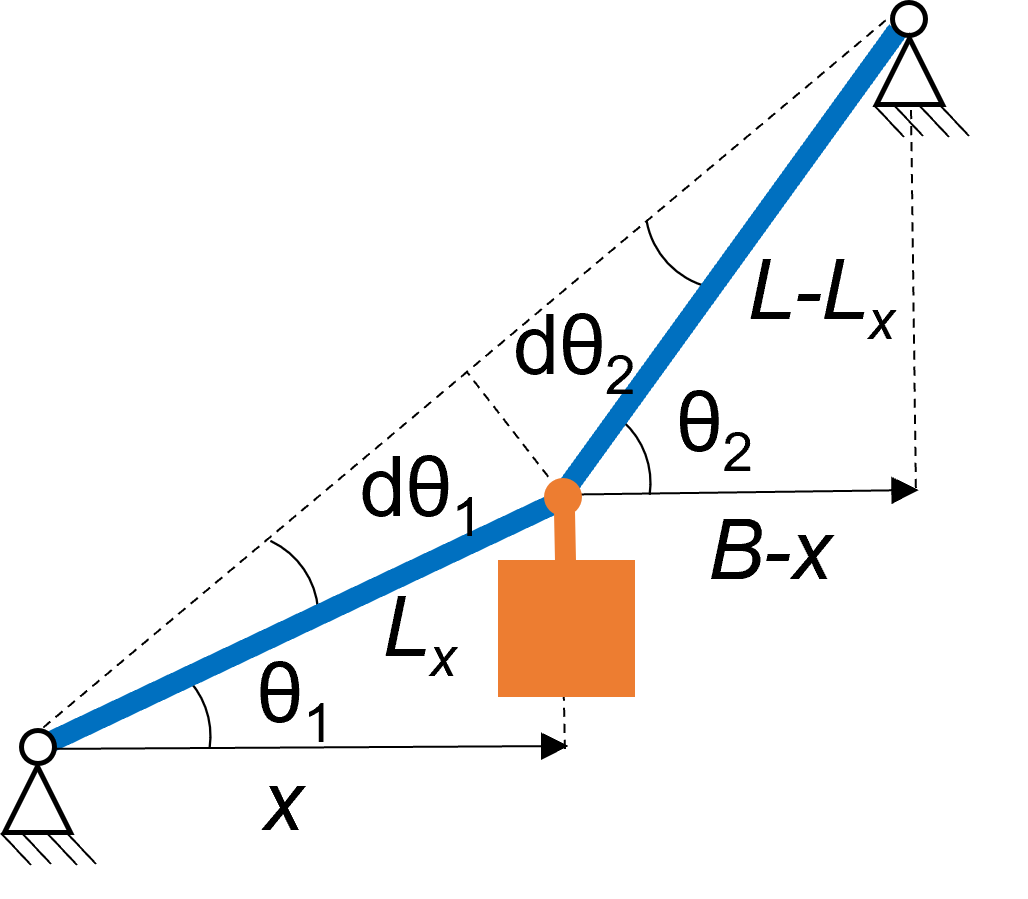
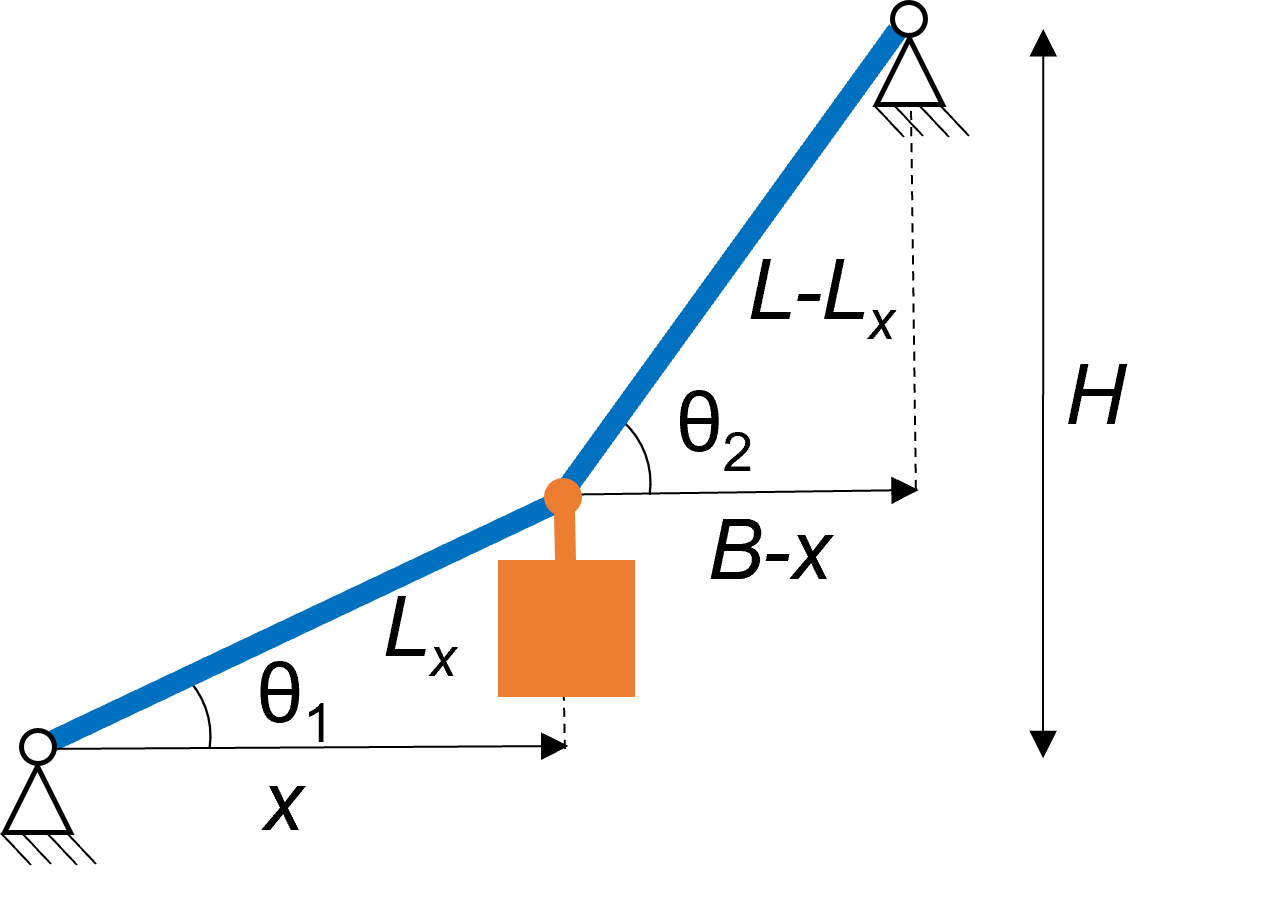
Changes - II
1. Kinematic formulation change - removal of alpha1 & alpha 2
2. T1 Angle change
3. Stretch factor increase

diff --git a/Cable_car/description2.html b/Cable_car/description2.html
@@ -36,8 +36,8 @@
         The following trigonometric relations can be obtained by considering the kinematic configuration of the cable car: 
 	$$L_x \: cos \: \theta_1  = x,$$ 
 	$$(L-L_x) \: cos \: \theta_2  = B-x,$$ 
-	$$L_x \: sin \: d\theta_1  = (L-L_x) \: sin \: d\theta_2$$ 
-        where $L_x$ is the bottom cable segment length, $B$ is the horizontal distance between the supports, $d\theta_1$ is the angle formed between the diagonal joining the supports and the bottom cable segment and $d\theta_2$ is the angle formed between the diagonal joining the supports and the top cable segment. The angles of the cable at the supports ($\theta_1$ and $\theta_2$) can be found by simultaneously solving these trigonometric relations.
+	$$L_x \: sin\: \theta_1 + (L-L_x) \: sin\: \theta_2  = H$$
+        where $L_x$ is the bottom cable segment length, $B$ is the horizontal distance between the supports and $H$ is the vertical distance between the supports. The angles of the cable at the supports ($\theta_1$ and $\theta_2$) can be found by simultaneously solving these trigonometric relations.
     </p>
 
     <p>

diff --git a/Cable_car/main.py b/Cable_car/main.py
@@ -5,6 +5,7 @@ location of the carriage car
 Created on Tue Jun  1 22:53:14 2021
 @author: Ramsubramanian Pazhanisamy
 """
+
 #################################
 ##           IMPORTS           ##
 #################################
@@ -33,19 +34,20 @@ from latex_support import LatexDiv, LatexLabelSet, LatexSlider
 ###################################################
 ##           APP THEORETICAL DESCRIPTION         ##
 ###################################################
+
 #Theoretical description of the app in Latex
 description_filename1 = join(dirname(__file__), "description1.html") #Part I of the description
 description1 = LatexDiv(text=open(description_filename1).read(), render_as_text=False, width=1000)
 
-description_filename2 = join(dirname(__file__), "description2.html")#Part II of the description
+description_filename2 = join(dirname(__file__), "description2.html") #Part II of the description
 description2 = LatexDiv(text=open(description_filename2).read(), render_as_text=False, width=1000)
 
-description_filename3 = join(dirname(__file__), "description3.html")#Part III of the description
+description_filename3 = join(dirname(__file__), "description3.html") #Part III of the description
 description3 = LatexDiv(text=open(description_filename3).read(), render_as_text=False, width=1000)
 
-#Figures_static
+# Figures_static
 # Plot
-#Kinematics of the cable car 
+# Kinematics of the cable car 
 kinematics_img="Cable_car/static/images/Kinematics.svg"
 figure_kin = figure(height=235, width=235)
 figure_kin.toolbar.logo = None # do not display the bokeh logo
@@ -80,7 +82,7 @@ figure_fbd.outline_line_alpha = 0
 #################################
 
 # Initial parameters & its limits
-#Cable car dimensions & user inputs
+# Cable car dimensions & user inputs
 H_max =525.0 #Verical distance between the supports (m) -H
 H_min= 475.0
 H=500.0
@@ -89,7 +91,7 @@ B_max=525.0 #Horizontal distance between the supports (m) -B
 B_min=475.0
 B=500.0
 
-c_max=1.02  #Cable length stretch factor -c
+c_max=1.3  #Cable length stretch factor -c
 c_min=1.003
 c=(c_min+c_max)/2
 
@@ -100,27 +102,22 @@ M=250.0
 x=0.55*B #Axial location of the cable car
 D=np.sqrt(H*H+B*B) #Diagonal distance between the supports (m)
 L=c*D #Length of the cable (m) - cable length should be always higher than the distance between the supports
-theta_s1= np.arcsin(H/D) #Angle of the support 1 - bottom support
-theta_s2= np.arcsin(B/D) #Angle of the support 2 - top support
 W=M*9.81 #Weight of the car (N)
 
-a1=0.0 #alpha1 - angle between the cable and diagonal joining the supports at bottom support
-a2=0.0 #alpha2 - angle between the cable and diagonal joining the supports at top support            
+#Symbolic constants
+theta1=sp.Symbol('theta1',real=True)
+theta2=sp.Symbol('theta2',real=True)         
 
-#Symbolic constants for sympy - a1 & a2
-alpha1=sp.Symbol('alpha1',real=True)
-alpha2=sp.Symbol('alpha2',real=True)        
-
-#Kinematic equations 
-eq1= sp.Eq(((L-x/sp.cos(theta_s1-alpha1))*sp.sin(theta_s2-alpha2))+x-B,0)
-eq2= sp.Eq((x/sp.cos(theta_s1-alpha1)*sp.sin(alpha1))-((L-x/sp.cos(theta_s1-alpha1))*sp.sin(alpha2)),0)    
-
-#Simultaneously solving the system of equations numerically
-[a1,a2]=sp.nsolve((eq1,eq2),(alpha1,alpha2),(0.10,0.10))    
+#Kinematic equations
+eq1= sp.Eq(((L-x/sp.cos(theta1))*sp.cos(theta2))+x-B,0)
+eq2= sp.Eq(((x/sp.cos(theta1))*sp.sin(theta1))+((L-x/sp.cos(theta1))*sp.sin(theta2))-H,0)
+    
+#Solving the system of equations numerically
+[t1,t2]=sp.nsolve((eq1,eq2),(theta1,theta2),(0.25,0.75))    
 
 #Effective angles on the Cable
-theta_total1=float(theta_s1-a1) #Actual angle at S1 for a specific car position on the rope
-theta_total2=float(theta_s2+a2) #Actual angle at S2 for a specific car position on the rope
+theta_total1=float(t1) #Actual angle at S1 for a specific car position on the rope
+theta_total2=float(t2) #Actual angle at S2 for a specific car position on the rope
 Lx=x/np.cos(theta_total1) #Length of the bottom cable segement     
 
 #Tensions on the Cable
@@ -134,15 +131,13 @@ T2= W/(np.sin(theta_total2)-(np.cos(theta_total2)*np.sin(theta_total1)/np.cos(th
 
 # Div to show tension and distance values
 value_plot_distance_cable_length= LatexDiv(text="", render_as_text=False, width=400)
-value_plot_angles1 = LatexDiv(text="", render_as_text=False, width=400)
-value_plot_angles2 = LatexDiv(text="", render_as_text=False, width=400)
+value_plot_angles = LatexDiv(text="", render_as_text=False, width=400)
 value_plot_tensions = LatexDiv(text="", render_as_text=False, width=400)
 
 #Display the results
-def setValueText(D,L,t1,t2,a1,a2,T1,T2):
+def setValueText(D,L,t1,t2,T1,T2):
     value_plot_distance_cable_length.text = "$$\\begin{aligned} D&=" + "{:4.1f}".format(D) + "\\,\\mathrm{m}\\\\ L&=" + "{:4.1f}".format(L) + "\\,\\mathrm{m} \\end{aligned}$$"    #Display the D & L
-    value_plot_angles1.text = "$$\\begin{aligned} \\theta_1&=" + "{:4.1f}".format(t1) + "\\,\\mathrm{°}\\\\ \\theta_2&=" + "{:4.1f}".format(t2) + "\\,\\mathrm{°} \\end{aligned}$$" #Display Theta1 & Theta2
-    value_plot_angles2.text = "$$\\begin{aligned} \\alpha_1&=" + "{:4.1f}".format(a1) + "\\,\\mathrm{°}\\\\ \\alpha_2&=" + "{:4.1f}".format(a2) + "\\,\\mathrm{°} \\end{aligned}$$" #Display alpha1 & alpha2
+    value_plot_angles.text = "$$\\begin{aligned} \\theta_1&=" + "{:4.1f}".format(t1) + "\\,\\mathrm{°}\\\\ \\theta_2&=" + "{:4.1f}".format(t2) + "\\,\\mathrm{°} \\end{aligned}$$" #Display Theta1 & Theta2
     value_plot_tensions.text = "$$\\begin{aligned} T_1&=" + "{:4.1f}".format(T1) + "\\,\\mathrm{N}\\\\ T_2&=" + "{:4.1f}".format(T2) + "\\,\\mathrm{N} \\end{aligned}$$"           #Display T1 & T2
 
 #Slider change call back function for H, c, M, X
@@ -155,28 +150,22 @@ def slider_cb_fun(attr,old,new):
     
     D=np.sqrt(H*H+B*B) #Height of the support (m)
     L=c*D #Length of the rope (m)
-    
-    theta_s1= np.arcsin(H/D) #Angle of the support 1
-    theta_s2= np.arcsin(B/D) #Angle of the support 2
     W=M*9.81 #Weight of the car (N)
     
-    a1=0.0 #alpha1 - angle between the cable and diagonal joining the supports at bottom support
-    a2=0.0 #alpha2 - angle between the cable and diagonal joining the supports at top support            
+    #Symbolic constants
+    theta1=sp.Symbol('theta1',real=True)
+    theta2=sp.Symbol('theta2',real=True)         
 
-    #Symbolic constants for sympy - a1 & a2
-    alpha1=sp.Symbol('alpha1',real=True)
-    alpha2=sp.Symbol('alpha2',real=True)        
-
-    #Kinematic equations 
-    eq1= sp.Eq(((L-x/sp.cos(theta_s1-alpha1))*sp.sin(theta_s2-alpha2))+x-B,0)
-    eq2= sp.Eq((x/sp.cos(theta_s1-alpha1)*sp.sin(alpha1))-((L-x/sp.cos(theta_s1-alpha1))*sp.sin(alpha2)),0)    
-
-    #Simultaneously solving the system of equations numerically
-    [a1,a2]=sp.nsolve((eq1,eq2),(alpha1,alpha2),(0.10,0.10))    
+    #Kinematic equations
+    eq1= sp.Eq(((L-x/sp.cos(theta1))*sp.cos(theta2))+x-B,0)
+    eq2= sp.Eq(((x/sp.cos(theta1))*sp.sin(theta1))+((L-x/sp.cos(theta1))*sp.sin(theta2))-H,0)
+    
+    #Solving the system of equations numerically
+    [t1,t2]=sp.nsolve((eq1,eq2),(theta1,theta2),(0.25,0.75))    
 
     #Effective angles on the Cable
-    theta_total1=float(theta_s1-a1) #Actual angle at S1 for a specific car position on the rope
-    theta_total2=float(theta_s2+a2) #Actual angle at S2 for a specific car position on the rope
+    theta_total1=float(t1) #Actual angle at S1 for a specific car position on the rope
+    theta_total2=float(t2) #Actual angle at S2 for a specific car position on the rope
     Lx=x/np.cos(theta_total1) #Length of the bottom cable segement     
 
     #Tensions on the Cable
@@ -184,9 +173,10 @@ def slider_cb_fun(attr,old,new):
     T2= W/(np.sin(theta_total2)-(np.cos(theta_total2)*np.sin(theta_total1)/np.cos(theta_total1)))  # Rope tension in the top
 
     #Update the result display
-    setValueText(D, L,theta_total1*180/np.pi, theta_total2*180/np.pi, a1*180/np.pi, a2*180/np.pi, T1, T2) 
+    setValueText(D, L,theta_total1*180/np.pi, theta_total2*180/np.pi, T1, T2) 
     #Update the animated plot
-    plot.x_range.end=B+200.0 
+    plot.x_range.end=B+200.0
+    plot.y_range.start=min (-200,Lx * np.sin(theta_total1)-320)
     plot.y_range.end=H+150.0
     support_source_top.patch( {'x':[(0,B)]} )
     support_source_top.patch( {'y':[(0,H+5.0)]} )
@@ -195,13 +185,13 @@ def slider_cb_fun(attr,old,new):
     line_source_carriage.data=dict(xs = [Lx * np.cos(theta_total1),Lx * np.cos(theta_total1)], ys= [Lx * np.sin(theta_total1)-120,Lx * np.sin(theta_total1)] )
     mass_source_carriage.data=dict(x = [Lx * np.cos(theta_total1)], y = [Lx * np.sin(theta_total1)-120], size=[int(M/M_max*80)] )
     connecting_pt_circle.data=dict(x = [Lx * np.cos(theta_total1)], y = [ Lx * np.sin(theta_total1)] )
-    x_pt_circle.data=dict(x = [Lx * np.cos(theta_total1)], y = [-200+15] )
+    x_pt_circle.data=dict(x = [Lx * np.cos(theta_total1)], y = [min(-200+25,Lx * np.sin(theta_total1)-320+25)] )
     y_pt_circle.data=dict(x = [-150+15], y = [ Lx * np.sin(theta_total1)] )
-    B_dist_source.patch( {'xE':[(0,B)], 'xL':[(0,0.5*B)]} )
-    H_dist_source.patch( {'xS':[(0,B+100)],'xE':[(0,B+100)],'yE':[(0,H)], 'xL':[(0,B+110)], 'yL':[(0,0.5*H)]} )
-    D_dist_source.patch( {'xE':[(0,B-60)], 'xL':[(0,0.5*B-70)], 'yE':[(0,H+60)], 'yL':[(0,0.5*H+70)]} )
-    T1_source.patch( {'xE':[(0,-5-(np.cos(theta_total1)*150*(T1/(T1+T2))))],'yE':[(0,+5-(np.sin(theta_total1)*150*(T1/(T1+T2))))], 'xL':[(0,-25-0.5*(np.cos(theta_total1)*150*(T1/(T1+T2))))], 'yL':[(0,+15-0.5*(np.sin(theta_total1)*150*(T1/(T1+T2))))]} )
-    T2_source.patch( {'xS':[(0,+5+B)],'xE':[(0,+5+B+(np.cos(theta_total2)*150*T2/(T1+T2)))],'yS':[(0,+5+H)],'yE':[(0,+5+H+(np.sin(theta_total2)*150*T2/(T1+T2)))], 'xL':[(0,+35+B+0.5*(np.cos(theta_total2)*150*T2/(T1+T2)))], 'yL':[(0,-10+H+0.5*(np.sin(theta_total2)*150*T2/(T1+T2)))]} )
+    B_dist_source.patch( {'xE':[(0,B)], 'yS':[(0,min(-150,Lx * np.sin(theta_total1)-270))], 'yE':[(0,min(-150,Lx * np.sin(theta_total1)-270))], 'xL':[(0,0.5*B)],'yL':[(0,min(-140,Lx * np.sin(theta_total1)-260))]} )
+    H_dist_source.patch( {'xS':[(0,B+100)],'xE':[(0,B+100)],'yE':[(0,H)], 'xL':[(0,B+70)], 'yL':[(0,0.5*H)]} )
+    D_dist_source.patch( {'xE':[(0,B-20)], 'xL':[(0,0.5*B-30)], 'yE':[(0,H+10)], 'yL':[(0,0.5*H+30)]} )
+    T1_source.patch( {'xE':[(0,-(np.cos(theta_total1)*150*(T1/(T1+T2))))],'yE':[(0,-(np.sin(theta_total1)*150*(T1/(T1+T2))))], 'xL':[(0,-25-0.5*(np.cos(theta_total1)*150*(T1/(T1+T2))))], 'yL':[(0,-50-0.5*(np.sin(theta_total1)*150*(T1/(T1+T2))))]} )
+    T2_source.patch( {'xS':[(0,B)],'xE':[(0,B+(np.cos(theta_total2)*150*T2/(T1+T2)))],'yS':[(0,H)],'yE':[(0,H+(np.sin(theta_total2)*150*T2/(T1+T2)))], 'xL':[(0,+25+B+0.5*(np.cos(theta_total2)*150*T2/(T1+T2)))], 'yL':[(0,-25+H+0.5*(np.sin(theta_total2)*150*T2/(T1+T2)))]} )
 
 #Slider change call back function for B    
 def slider_cb_fun_b(attr,old,new):
@@ -218,38 +208,34 @@ def slider_cb_fun_b(attr,old,new):
     D=np.sqrt(H*H + B*B) #Height of the support (m)
     c=c_slider.value    
     L=c*D #Length of the rope (m)
-    
-    theta_s1= np.arcsin(H/D) #Angle of the support 1
-    theta_s2= np.arcsin(B/D) #Angle of the support 2
     W=M*9.81 #Weight of the car (N)
+    
+    #Symbolic constants
+    theta1=sp.Symbol('theta1',real=True)
+    theta2=sp.Symbol('theta2',real=True)         
 
-    a1=0.0 #alpha1 - angle between the cable and diagonal joining the supports at bottom support
-    a2=0.0 #alpha2 - angle between the cable and diagonal joining the supports at top support            
-
-    #Symbolic constants for sympy - a1 & a2
-    alpha1=sp.Symbol('alpha1',real=True)
-    alpha2=sp.Symbol('alpha2',real=True)        
-
-    #Kinematic equations 
-    eq1= sp.Eq(((L-x/sp.cos(theta_s1-alpha1))*sp.sin(theta_s2-alpha2))+x-B,0)
-    eq2= sp.Eq((x/sp.cos(theta_s1-alpha1)*sp.sin(alpha1))-((L-x/sp.cos(theta_s1-alpha1))*sp.sin(alpha2)),0)    
-
-    #Simultaneously solving the system of equations numerically
-    [a1,a2]=sp.nsolve((eq1,eq2),(alpha1,alpha2),(0.10,0.10))    
+    #Kinematic equations
+    eq1= sp.Eq(((L-x/sp.cos(theta1))*sp.cos(theta2))+x-B,0)
+    eq2= sp.Eq(((x/sp.cos(theta1))*sp.sin(theta1))+((L-x/sp.cos(theta1))*sp.sin(theta2))-H,0)
+    
+    #Solving the system of equations numerically
+    [t1,t2]=sp.nsolve((eq1,eq2),(theta1,theta2),(0.25,0.75))    
 
     #Effective angles on the Cable
-    theta_total1=float(theta_s1-a1) #Actual angle at S1 for a specific car position on the rope
-    theta_total2=float(theta_s2+a2) #Actual angle at S2 for a specific car position on the rope
+    theta_total1=float(t1) #Actual angle at S1 for a specific car position on the rope
+    theta_total2=float(t2) #Actual angle at S2 for a specific car position on the rope
     Lx=x/np.cos(theta_total1) #Length of the bottom cable segement     
 
     #Tensions on the Cable
-    T1= W/(np.sin(theta_total2)-(np.cos(theta_total2)*np.sin(theta_total1)/np.cos(theta_total1)))*(np.cos(theta_total2)/np.cos(theta_total1)) # Cable tension in the bottom
-    T2= W/(np.sin(theta_total2)-(np.cos(theta_total2)*np.sin(theta_total1)/np.cos(theta_total1)))  # Cable tension in the top
+    T1= W/(np.sin(theta_total2)-(np.cos(theta_total2)*np.sin(theta_total1)/np.cos(theta_total1)))*(np.cos(theta_total2)/np.cos(theta_total1)) # Rope tension in the bottom
+    T2= W/(np.sin(theta_total2)-(np.cos(theta_total2)*np.sin(theta_total1)/np.cos(theta_total1)))  # Rope tension in the top
 
     #Update the result display
-    setValueText(D, L,theta_total1*180/np.pi, theta_total2*180/np.pi, a1*180/np.pi, a2*180/np.pi, T1, T2) 
+    setValueText(D, L,theta_total1*180/np.pi, theta_total2*180/np.pi, T1, T2) 
+    
     #Update the animated plot
     plot.x_range.end=B+200.0 
+    plot.y_range.start=min (-200,Lx * np.sin(theta_total1)-320)
     plot.y_range.end=H+150.0
     support_source_top.patch( {'x':[(0,B)]} )
     support_source_top.patch( {'y':[(0,H+5.0)]} )
@@ -258,13 +244,13 @@ def slider_cb_fun_b(attr,old,new):
     line_source_carriage.data=dict(xs = [Lx * np.cos(theta_total1),Lx * np.cos(theta_total1)], ys= [Lx * np.sin(theta_total1)-120,Lx * np.sin(theta_total1)] )
     mass_source_carriage.data=dict(x = [Lx * np.cos(theta_total1)], y = [Lx * np.sin(theta_total1)-120], size=[int(M/M_max*80)] )
     connecting_pt_circle.data=dict(x = [Lx * np.cos(theta_total1)], y = [ Lx * np.sin(theta_total1)] )
-    x_pt_circle.data=dict(x = [Lx * np.cos(theta_total1)], y = [-200+15] )
+    x_pt_circle.data=dict(x = [Lx * np.cos(theta_total1)], y = [min(-200+25,Lx * np.sin(theta_total1)-320+25)] )
     y_pt_circle.data=dict(x = [-150+15], y = [ Lx * np.sin(theta_total1)] )
-    B_dist_source.patch( {'xE':[(0,B)], 'xL':[(0,0.5*B)]} )
-    H_dist_source.patch( {'xS':[(0,B+100)],'xE':[(0,B+100)],'yE':[(0,H)], 'xL':[(0,B+110)], 'yL':[(0,0.5*H)]} )
-    D_dist_source.patch( {'xE':[(0,B-60)], 'xL':[(0,0.5*B-70)], 'yE':[(0,H+60)], 'yL':[(0,0.5*H+70)]} )
-    T1_source.patch( {'xE':[(0,-5-(np.cos(theta_total1)*150*(T1/(T1+T2))))],'yE':[(0,+5-(np.sin(theta_total1)*150*(T1/(T1+T2))))], 'xL':[(0,-25-0.5*(np.cos(theta_total1)*150*(T1/(T1+T2))))], 'yL':[(0,+15-0.5*(np.sin(theta_total1)*150*(T1/(T1+T2))))]} )
-    T2_source.patch( {'xS':[(0,+5+B)],'xE':[(0,+5+B+(np.cos(theta_total2)*150*T2/(T1+T2)))],'yS':[(0,+5+H)],'yE':[(0,+5+H+(np.sin(theta_total2)*150*T2/(T1+T2)))], 'xL':[(0,+35+B+0.5*(np.cos(theta_total2)*150*T2/(T1+T2)))], 'yL':[(0,-10+H+0.5*(np.sin(theta_total2)*150*T2/(T1+T2)))]} )
+    B_dist_source.patch( {'xE':[(0,B)], 'yS':[(0,min(-150,Lx * np.sin(theta_total1)-270))], 'yE':[(0,min(-150,Lx * np.sin(theta_total1)-270))], 'xL':[(0,0.5*B)],'yL':[(0,min(-140,Lx * np.sin(theta_total1)-260))]} )
+    H_dist_source.patch( {'xS':[(0,B+100)],'xE':[(0,B+100)],'yE':[(0,H)], 'xL':[(0,B+70)], 'yL':[(0,0.5*H)]} )
+    D_dist_source.patch( {'xE':[(0,B-20)], 'xL':[(0,0.5*B-30)], 'yE':[(0,H+10)], 'yL':[(0,0.5*H+30)]} )
+    T1_source.patch( {'xE':[(0,-(np.cos(theta_total1)*150*(T1/(T1+T2))))],'yE':[(0,-(np.sin(theta_total1)*150*(T1/(T1+T2))))], 'xL':[(0,-25-0.5*(np.cos(theta_total1)*150*(T1/(T1+T2))))], 'yL':[(0,-50-0.5*(np.sin(theta_total1)*150*(T1/(T1+T2))))]} )
+    T2_source.patch( {'xS':[(0,B)],'xE':[(0,B+(np.cos(theta_total2)*150*T2/(T1+T2)))],'yS':[(0,H)],'yE':[(0,H+(np.sin(theta_total2)*150*T2/(T1+T2)))], 'xL':[(0,+25+B+0.5*(np.cos(theta_total2)*150*T2/(T1+T2)))], 'yL':[(0,-25+H+0.5*(np.sin(theta_total2)*150*T2/(T1+T2)))]} )
 
 
 #Call back function for reset button
@@ -280,37 +266,34 @@ def callback_reset(event):
     
     D=np.sqrt(H*H+B*B) #Height of the support (m)
     L=c*D #Length of the rope (m)
-    
-    theta_s1= np.arcsin(H/D) #Angle of the support 1
-    theta_s2= np.arcsin(B/D) #Angle of the support 2
     W=M*9.81 #Weight of the car (N)
-    a1=0.0 #alpha1 - angle between the cable and diagonal joining the supports at bottom support
-    a2=0.0 #alpha2 - angle between the cable and diagonal joining the supports at top support            
+    
+    #Symbolic constants
+    theta1=sp.Symbol('theta1',real=True)
+    theta2=sp.Symbol('theta2',real=True)         
 
-    #Symbolic constants for sympy - a1 & a2
-    alpha1=sp.Symbol('alpha1',real=True)
-    alpha2=sp.Symbol('alpha2',real=True)        
-
-    #Kinematic equations 
-    eq1= sp.Eq(((L-x/sp.cos(theta_s1-alpha1))*sp.sin(theta_s2-alpha2))+x-B,0)
-    eq2= sp.Eq((x/sp.cos(theta_s1-alpha1)*sp.sin(alpha1))-((L-x/sp.cos(theta_s1-alpha1))*sp.sin(alpha2)),0)    
-
-    #Simultaneously solving the system of equations numerically
-    [a1,a2]=sp.nsolve((eq1,eq2),(alpha1,alpha2),(0.10,0.10))    
+    #Kinematic equations
+    eq1= sp.Eq(((L-x/sp.cos(theta1))*sp.cos(theta2))+x-B,0)
+    eq2= sp.Eq(((x/sp.cos(theta1))*sp.sin(theta1))+((L-x/sp.cos(theta1))*sp.sin(theta2))-H,0)
+    
+    #Solving the system of equations numerically
+    [t1,t2]=sp.nsolve((eq1,eq2),(theta1,theta2),(0.25,0.75))    
 
     #Effective angles on the Cable
-    theta_total1=float(theta_s1-a1) #Actual angle at S1 for a specific car position on the rope
-    theta_total2=float(theta_s2+a2) #Actual angle at S2 for a specific car position on the rope
+    theta_total1=float(t1) #Actual angle at S1 for a specific car position on the rope
+    theta_total2=float(t2) #Actual angle at S2 for a specific car position on the rope
     Lx=x/np.cos(theta_total1) #Length of the bottom cable segement     
 
     #Tensions on the Cable
-    T1= W/(np.sin(theta_total2)-(np.cos(theta_total2)*np.sin(theta_total1)/np.cos(theta_total1)))*(np.cos(theta_total2)/np.cos(theta_total1)) # Cable tension in the bottom
-    T2= W/(np.sin(theta_total2)-(np.cos(theta_total2)*np.sin(theta_total1)/np.cos(theta_total1)))  # Cable tension in the top
+    T1= W/(np.sin(theta_total2)-(np.cos(theta_total2)*np.sin(theta_total1)/np.cos(theta_total1)))*(np.cos(theta_total2)/np.cos(theta_total1)) # Rope tension in the bottom
+    T2= W/(np.sin(theta_total2)-(np.cos(theta_total2)*np.sin(theta_total1)/np.cos(theta_total1)))  # Rope tension in the top
 
     #Update the result display
-    setValueText(D, L,theta_total1*180/np.pi, theta_total2*180/np.pi, a1*180/np.pi, a2*180/np.pi, T1, T2) 
+    setValueText(D, L,theta_total1*180/np.pi, theta_total2*180/np.pi, T1, T2) 
+    
     #Update the animated plot
     plot.x_range.end=B+200.0 
+    plot.y_range.start=min (-200,Lx * np.sin(theta_total1)-320)
     plot.y_range.end=H+150.0
     support_source_top.patch( {'x':[(0,B)]} )
     support_source_top.patch( {'y':[(0,H+5.0)]} )
@@ -319,13 +302,13 @@ def callback_reset(event):
     line_source_carriage.data=dict(xs = [Lx * np.cos(theta_total1),Lx * np.cos(theta_total1)], ys= [Lx * np.sin(theta_total1)-120,Lx * np.sin(theta_total1)] )
     mass_source_carriage.data=dict(x = [Lx * np.cos(theta_total1)], y = [Lx * np.sin(theta_total1)-120], size=[int(M/M_max*80)] )
     connecting_pt_circle.data=dict(x = [Lx * np.cos(theta_total1)], y = [ Lx * np.sin(theta_total1)] )
-    x_pt_circle.data=dict(x = [Lx * np.cos(theta_total1)], y = [-200+15] )
+    x_pt_circle.data=dict(x = [Lx * np.cos(theta_total1)], y = [min(-200+25,Lx * np.sin(theta_total1)-320+25)] )
     y_pt_circle.data=dict(x = [-150+15], y = [ Lx * np.sin(theta_total1)] )
-    B_dist_source.patch( {'xE':[(0,B)], 'xL':[(0,0.5*B)]} )
-    H_dist_source.patch( {'xS':[(0,B+100)],'xE':[(0,B+100)],'yE':[(0,H)], 'xL':[(0,B+110)], 'yL':[(0,0.5*H)]} )
-    D_dist_source.patch( {'xE':[(0,B-60)], 'xL':[(0,0.5*B-70)], 'yE':[(0,H+60)], 'yL':[(0,0.5*H+70)]} )
-    T1_source.patch( {'xE':[(0,-5-(np.cos(theta_total1)*150*(T1/(T1+T2))))],'yE':[(0,+5-(np.sin(theta_total1)*150*(T1/(T1+T2))))], 'xL':[(0,-25-0.5*(np.cos(theta_total1)*150*(T1/(T1+T2))))], 'yL':[(0,+15-0.5*(np.sin(theta_total1)*150*(T1/(T1+T2))))]} )
-    T2_source.patch( {'xS':[(0,+5+B)],'xE':[(0,+5+B+(np.cos(theta_total2)*150*T2/(T1+T2)))],'yS':[(0,+5+H)],'yE':[(0,+5+H+(np.sin(theta_total2)*150*T2/(T1+T2)))], 'xL':[(0,+35+B+0.5*(np.cos(theta_total2)*150*T2/(T1+T2)))], 'yL':[(0,-10+H+0.5*(np.sin(theta_total2)*150*T2/(T1+T2)))]} )
+    B_dist_source.patch( {'xE':[(0,B)], 'yS':[(0,min(-150,Lx * np.sin(theta_total1)-270))], 'yE':[(0,min(-150,Lx * np.sin(theta_total1)-270))], 'xL':[(0,0.5*B)],'yL':[(0,min(-140,Lx * np.sin(theta_total1)-260))]} )
+    H_dist_source.patch( {'xS':[(0,B+100)],'xE':[(0,B+100)],'yE':[(0,H)], 'xL':[(0,B+70)], 'yL':[(0,0.5*H)]} )
+    D_dist_source.patch( {'xE':[(0,B-20)], 'xL':[(0,0.5*B-30)], 'yE':[(0,H+10)], 'yL':[(0,0.5*H+30)]} )
+    T1_source.patch( {'xE':[(0,-(np.cos(theta_total1)*150*(T1/(T1+T2))))],'yE':[(0,-(np.sin(theta_total1)*150*(T1/(T1+T2))))], 'xL':[(0,-25-0.5*(np.cos(theta_total1)*150*(T1/(T1+T2))))], 'yL':[(0,-50-0.5*(np.sin(theta_total1)*150*(T1/(T1+T2))))]} )
+    T2_source.patch( {'xS':[(0,B)],'xE':[(0,B+(np.cos(theta_total2)*150*T2/(T1+T2)))],'yS':[(0,H)],'yE':[(0,H+(np.sin(theta_total2)*150*T2/(T1+T2)))], 'xL':[(0,+25+B+0.5*(np.cos(theta_total2)*150*T2/(T1+T2)))], 'yL':[(0,-25+H+0.5*(np.sin(theta_total2)*150*T2/(T1+T2)))]} )
 # ----------------------------------------------------------------- #
 
 ####################################
@@ -363,7 +346,7 @@ Reset_button.on_click(callback_reset)
 ####################################
 
 # Plot
-plot = figure(title="", tools="", x_range=(-150,B+200), y_range=(-200,H+150),aspect_scale=2.0)
+plot = figure(title="", tools="", x_range=(-150,B+200), y_range=(min(-200,Lx * np.sin(theta_total1)-320),H+150),aspect_scale=2.0)
 plot.plot_height=700
 plot.plot_width=850
 plot.toolbar.logo = None
@@ -391,16 +374,15 @@ mass_source_carriage=ColumnDataSource(dict(x = [Lx * np.cos(theta_total1)], y = 
 connecting_pt_circle=ColumnDataSource(dict(x = [Lx * np.cos(theta_total1)], y = [ Lx * np.sin(theta_total1)] ))
 
 #Annotations 
-B_dist_source = ColumnDataSource(dict(xS=[0], xE=[B], yS=[-150], yE=[-150], xL=[B*0.5], yL=[-140], text=["B"]))
-#X_dist_source = ColumnDataSource(dict(xS=[0], xE=[x], yS=[-125], yE=[-125], xL=[x*0.5], yL=[-115], text=["X"]))
-H_dist_source = ColumnDataSource(dict(xS=[B+100], xE=[B+100], yS=[0], yE=[H], xL=[B+110], yL=[0.5*H], text=["H"]))
-D_dist_source = ColumnDataSource(dict(xS=[0-60], xE=[B-60], yS=[0+60], yE=[H+60], xL=[B*0.5-70], yL=[H*0.5+70], text=["D"]))
-x_pt_circle=ColumnDataSource(dict(x = [Lx * np.cos(theta_total1)], y = [-200+15] ))
+B_dist_source = ColumnDataSource(dict(xS=[0], xE=[B], yS=[min(-200+50,Lx * np.sin(theta_total1)-320+50)], yE=[min(-200+50,Lx * np.sin(theta_total1)-320+50)], xL=[B*0.5], yL=[min(-200+60,Lx * np.sin(theta_total1)-320+60)], text=["B"]))
+H_dist_source = ColumnDataSource(dict(xS=[B+100], xE=[B+100], yS=[0], yE=[H], xL=[B+70], yL=[0.5*H], text=["H"]))
+D_dist_source = ColumnDataSource(dict(xS=[+0], xE=[B-20], yS=[0+30], yE=[H+10], xL=[B*0.5-30], yL=[H*0.5+30], text=["D"]))
+x_pt_circle=ColumnDataSource(dict(x = [Lx * np.cos(theta_total1)], y = [min(-200+25,Lx * np.sin(theta_total1)-320+25)] ))
 y_pt_circle=ColumnDataSource(dict(x = [-150+15], y = [ Lx * np.sin(theta_total1)] ))
 
 #Cable Tensions & Load
-T1_source = ColumnDataSource(dict(xS=[-10], xE=[-10-(np.cos(theta_total1)*150*T1/(T1+T2))], yS=[-10], yE=[-10-(np.sin(theta_total1)*150*T1/(T1+T2))], xL=[-25-0.5*(np.cos(theta_total1)*150*T1/(T1+T2))], yL=[+15-0.5*(np.sin(theta_total1)*150*T1/(T1+T2))], name=["T_1"]))
-T2_source =ColumnDataSource(dict(xS=[5+B], xE=[5+B+(np.cos(theta_total2)*150*T2/(T1+T2))], yS=[5+H], yE=[5+H+(np.sin(theta_total2)*150*T2/(T1+T2))], xL=[+35+B+0.5*(np.cos(theta_total2)*150*T2/(T1+T2))], yL=[-10+H+0.5*(np.sin(theta_total2)*150*T2/(T1+T2))], name=["T_2"]))
+T1_source = ColumnDataSource(dict(xS=[0], xE=[-(np.cos(theta_total1)*150*T1/(T1+T2))], yS=[0], yE=[-(np.sin(theta_total1)*150*T1/(T1+T2))], xL=[-25-0.5*(np.cos(theta_total1)*150*T1/(T1+T2))], yL=[-50-0.5*(np.sin(theta_total1)*150*T1/(T1+T2))], name=["T_1"]))
+T2_source =ColumnDataSource(dict(xS=[B], xE=[B+(np.cos(theta_total2)*150*T2/(T1+T2))], yS=[H], yE=[H+(np.sin(theta_total2)*150*T2/(T1+T2))], xL=[+25+B+0.5*(np.cos(theta_total2)*150*T2/(T1+T2))], yL=[-25+H+0.5*(np.sin(theta_total2)*150*T2/(T1+T2))], name=["T_2"]))
 
 #Labels and arrows for annotations & cable tensions
 B_dist = Arrow(end=TeeHead(line_color="#808080", line_width=1, size=10),
@@ -462,7 +444,7 @@ curdoc().add_root(column(
     column(plot,column(
     row(H_slider,B_slider,c_slider),
     row(M_slider,X_slider,Reset_button),
-    row(value_plot_distance_cable_length,value_plot_angles1, value_plot_tensions)
+    row(value_plot_distance_cable_length,value_plot_angles, value_plot_tensions)
     ))))
 
 curdoc().title = split(dirname(__file__))[-1].replace('_',' ').replace('-',' ')  # get path of parent directory and only use the name of the Parent Directory for the tab name. Replace underscores '_' and minuses '-' with blanks ' '
